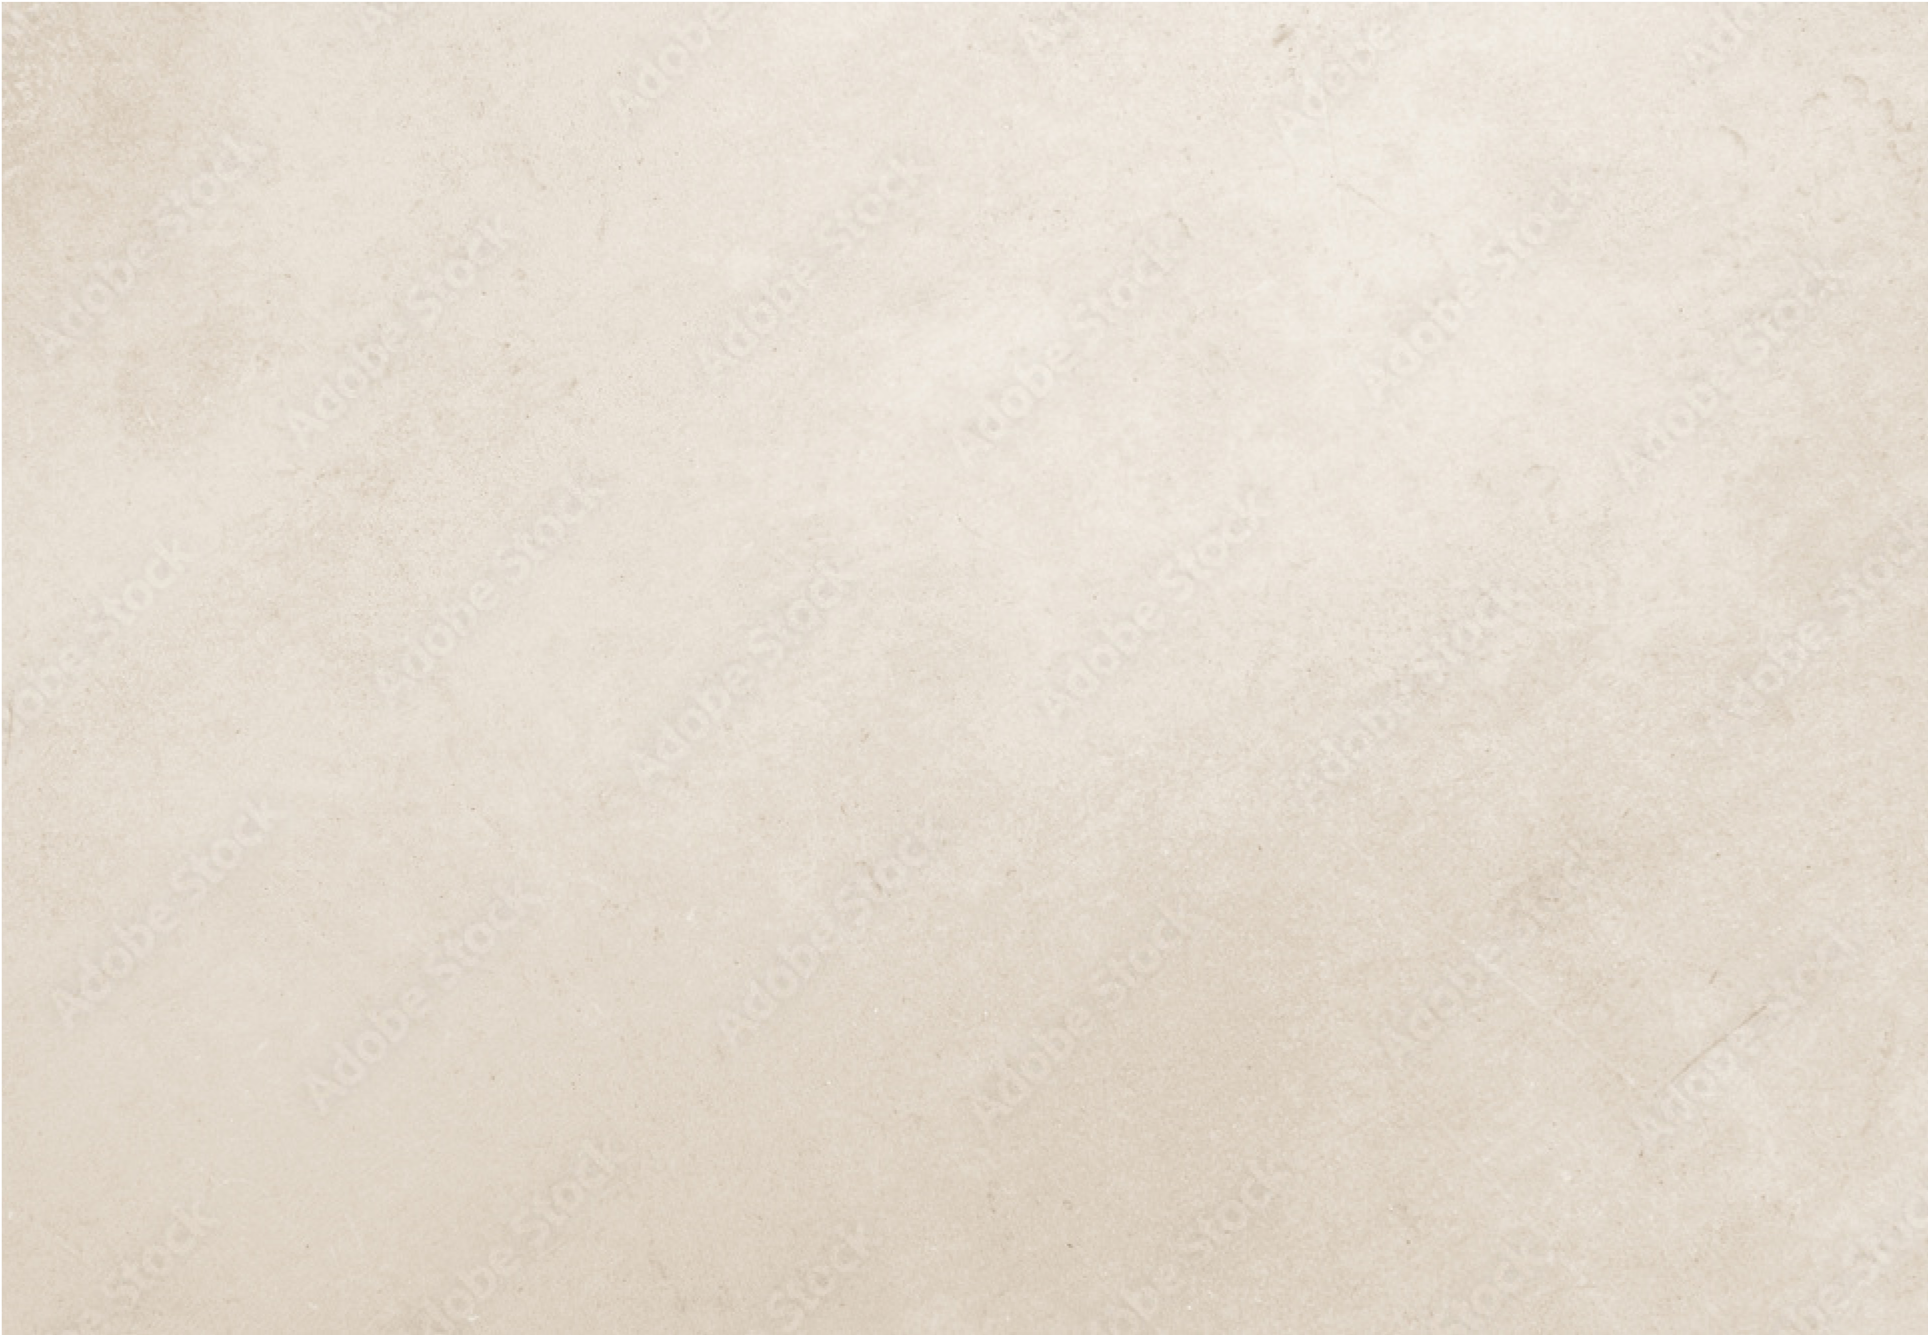
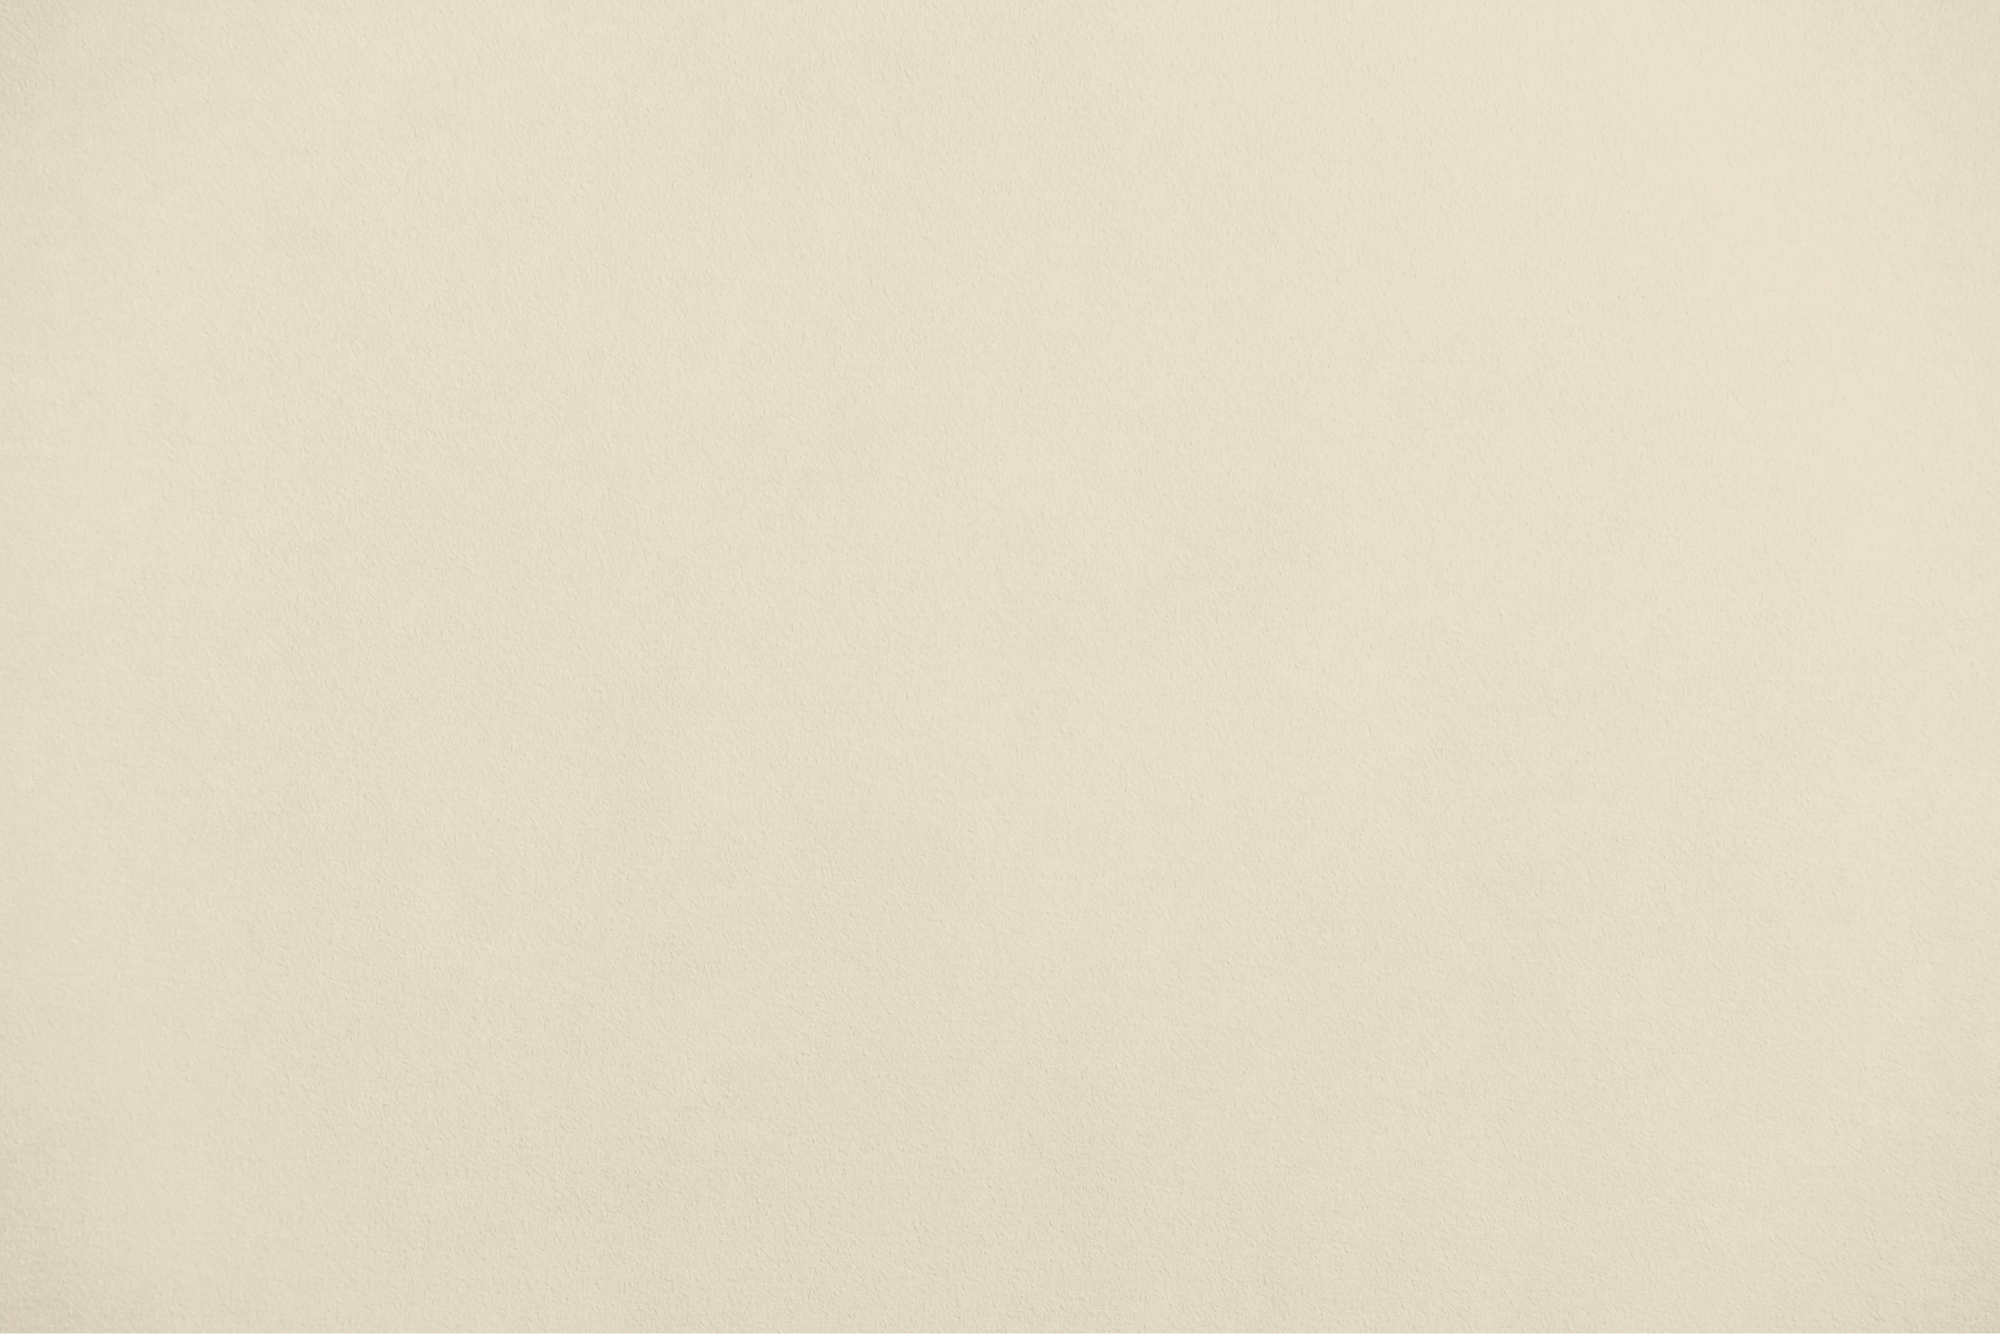
texture in bg and frames

diff --git a/app/components/Protegees.module.css b/app/components/Protegees.module.css
@@ -1,7 +1,7 @@
 .protegesSection {
   padding: 2rem 4rem;
   /* border: 1px solid red; */
-  background-image: url('/probg.jpg');
+  background-image: url('/proBg.png');
   background-size: cover;
   background-repeat: no-repeat;
 }
